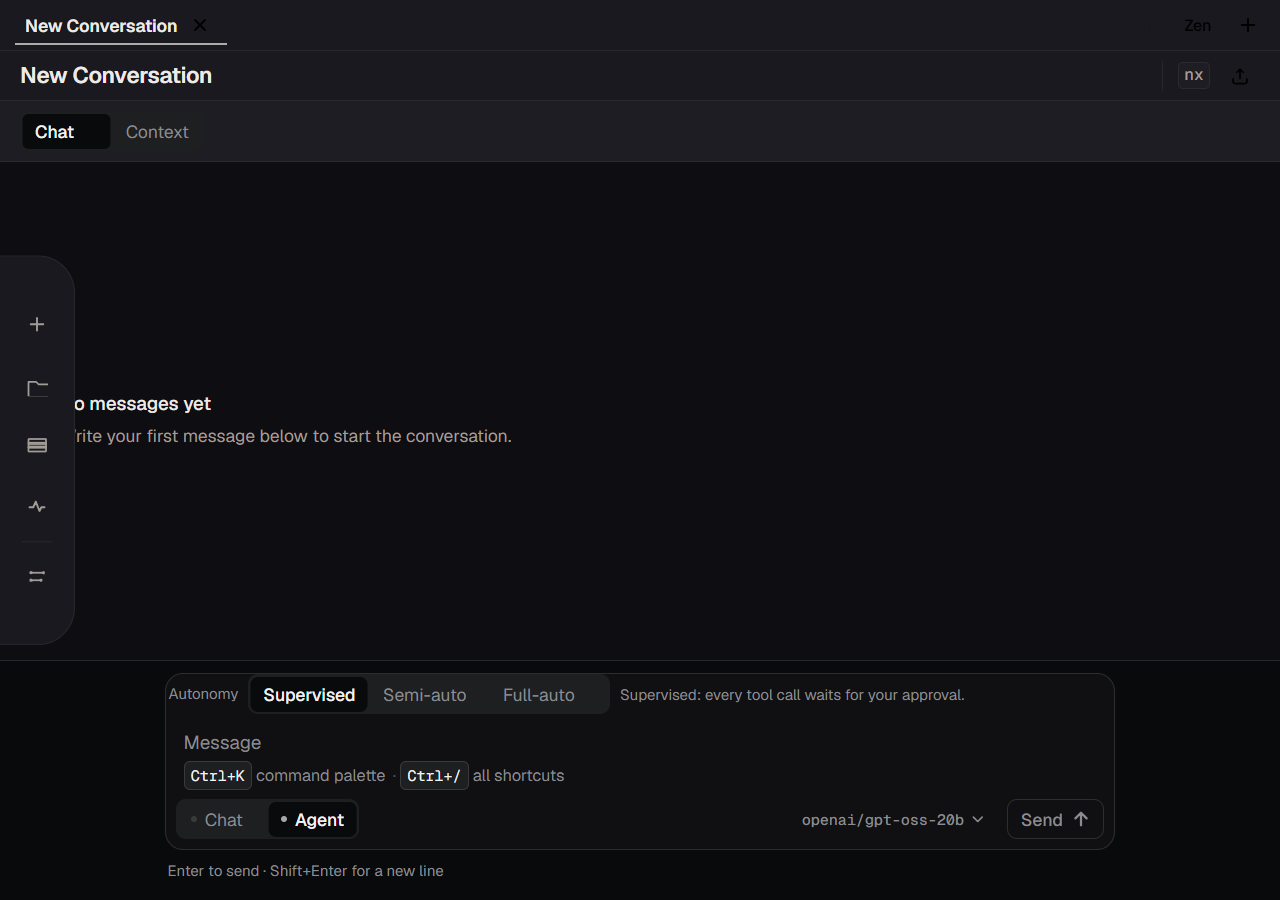
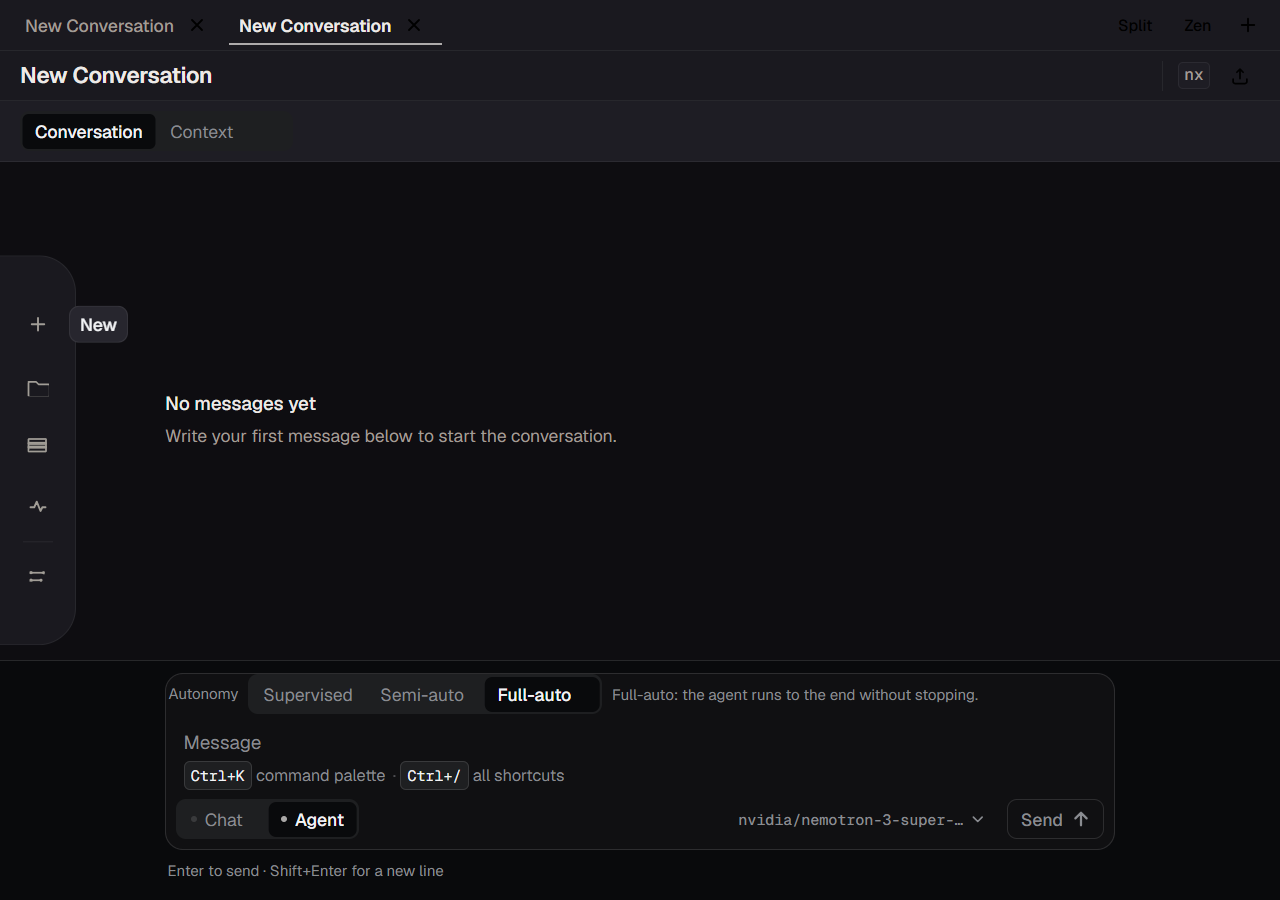
docs(proof): re-shoot phase C frames on the merged shell

diff --git a/docs/proof/round4/phase-c/README.md b/docs/proof/round4/phase-c/README.md
@@ -1,14 +1,15 @@
 # Phase C proof frames — composer + Glide Select
 
-Real Tauri build (`npm run tauri dev`), client area only, 125% display scaling
-(a 1200×800 CSS viewport is a 1500×1000 PNG). A conversation was opened through the
-Dock's "New" button so the composer is mounted; the pointer was parked off every hover
-target so no tooltip sits in a frame.
+Real Tauri build (`npm run tauri dev`), client area only, 125 % display scaling (a 1200×800
+CSS viewport is a 1500×1000 PNG). A conversation was opened through the Dock's "New" button
+so the composer is mounted; the pointer was parked off every hover target so no tooltip sits
+in a frame. Captured on top of the merged shell fixes (Dock gutter, shared reading axis,
+strip controls), so the frames show the composer as it will actually ship.
 
-| File | CSS viewport | PNG | MD5 | Colours (full scan) | What I saw |
+| File | CSS viewport | PNG | MD5 | Colours | What I saw |
 |---|---|---|---|---|---|
-| `01-agent-1200x800-dark.png` | 1200×800 | 1500×1000 | `6100D6819ECBDE35056E66D327E9D105` | 3979 | Pane opens in Agent: the mode pill rests on "Agent", the autonomy pill rests on "Supervised" with an equal ring on both ends, the "Message" field is visible above the hint row, the model id `openai/gpt-oss-20b` is readable, Send is drawn in its disabled tone, and no attach control exists anywhere. |
-| `02-agent-1024x720-dark.png` | 1024×720 | 1280×900 | `20C9841961F463DB86AC358553EB8B26` | 3979 | Same state at the minimum window: the composer keeps its four rows without wrapping, the field and the model id stay legible, nothing clips inside the card. |
+| `01-agent-1200x800-dark.png` | 1200×800 | 1500×1000 | `4C923EFC90A0AD95D2948B255BC53045` | 4181 | Pane opens in Agent: the mode pill rests on "Agent", the autonomy pill rests on "Full-auto" with an equal ring on both ends, the "Message" field is visible above the hint row, the model id is readable metadata, Send is drawn unarmed, and no attach control exists anywhere. The empty state sits on the same left edge as the composer card. |
+| `02-agent-1024x720-dark.png` | 1024×720 | 1280×900 | `CB62815F8C5BB6E3416AAE27B3B35B1E` | 4574 | Same state at the minimum window: the composer keeps its four rows without wrapping, the field and the model id stay legible, the axis holds at 164, nothing clips inside the card. |
 
 Both frames are distinct and carry >900 colours.
 
@@ -17,27 +18,19 @@ Both frames are distinct and carry >900 colours.
 - Prove: Agent is the default mode in a real build; the attachment affordance is absent in
   Agent; the composer shows an editable field with its "Message" legend; the Glide Select
   pill is seated symmetrically inside its track in two groups (mode and autonomy) at two
-  widths; Send is visibly unarmed on an empty draft.
+  widths; Send is visibly unarmed on an empty draft; the reading column is shared with the
+  transcript.
 - Do not prove: the pill's motion (a still cannot), the model picker's row layout with its
   popover closed (covered by tests), Chat-mode paint, running/approval/complete states, RU,
   light theme, 200 % zoom — those rows stay open for Phases D–F.
-
-## Defect visible in these frames (not fixed here)
-
-The conversation's empty-message block still runs under the Dock: the frame shows
-"o messages yet" / "rite your first message below to start the conversation." because the
-first ~60 px of the text sit behind the rail. The Dock is a fixed overlay and nothing in
-the shell reserves its width, so any full-bleed content in that vertical band is clipped.
-The gutter is not specified in the plan (`.ai/plans/nexora-shell-implementation-plan.md`
-§5.2 names `--dock-width` but never assigns an inset), so this needs an owner decision
-instead of a guessed 60 px padding.
 
 ## Fixed in this phase after the first QA pass
 
 - The teaching legend painted an opaque card-toned plate over the textarea's first line, so
   the field looked absent. It is now a static row below the field.
 - The model trigger had no `color` rule at all, so the UA's `buttontext` (black) painted a
-  1.1:1 label; it now uses `--muted-foreground` (5.64:1 on the card).
+  1.1:1 label; the app-wide base-layer fallback plus this phase's own rule make it metadata
+  grey (5.64:1 on the card).
 - The pill was measured with integer `offsetLeft`/`offsetWidth` on fractional grid seats and
   lost its radius to a utility class, so it sat flush against the track's right edge; it is
   now published from `getBoundingClientRect` and shares the segment's radius token.
